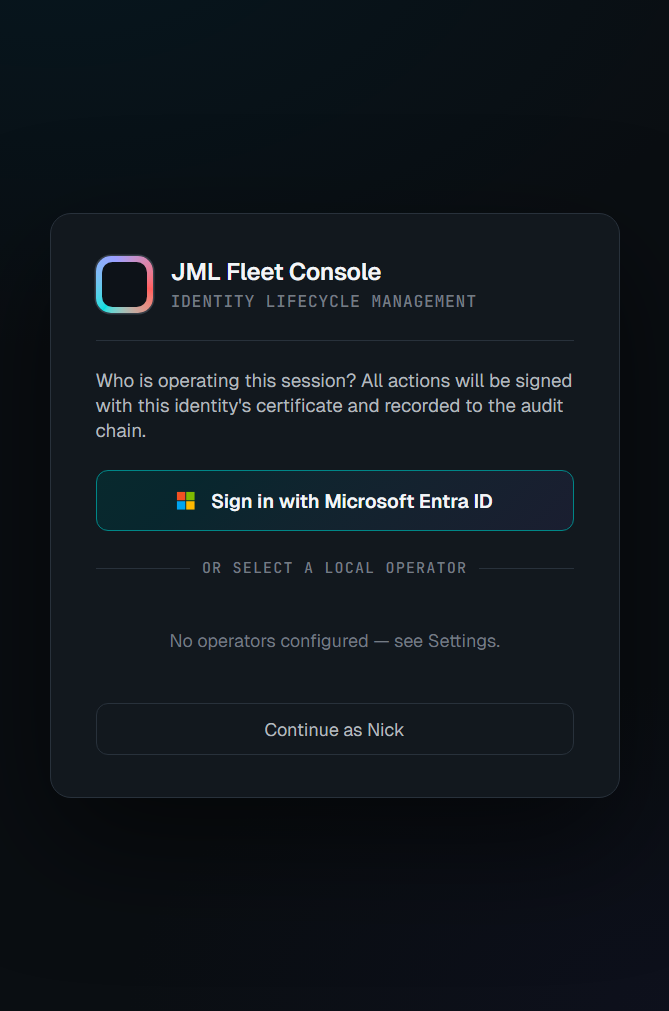
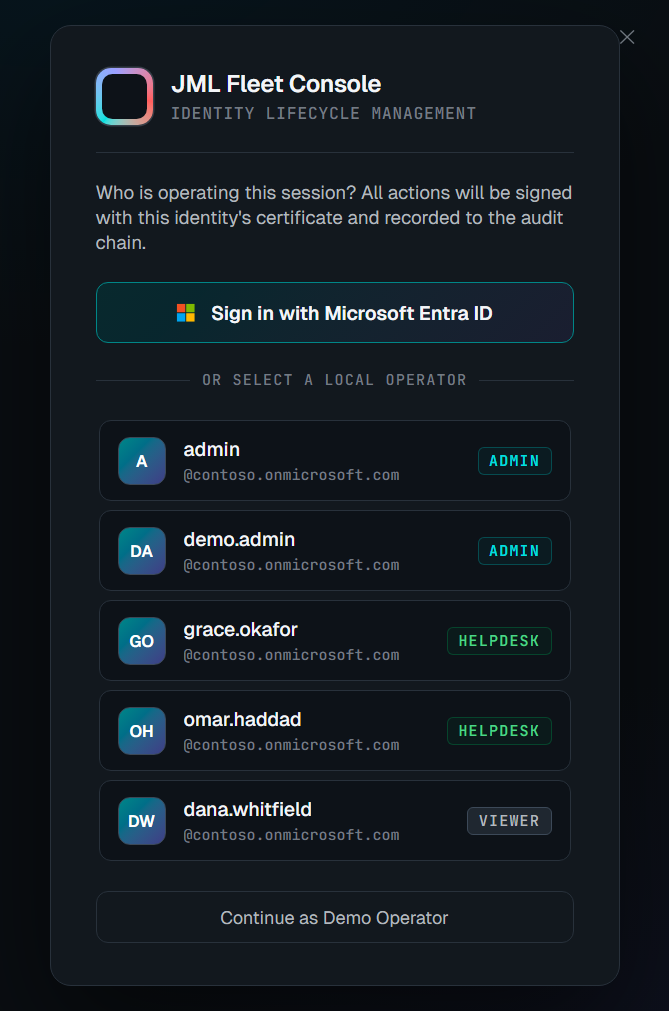
QC: refresh screenshots (PII-safe), fix stale test counts and download links
- Regenerate every view screenshot (16 console views + integrations +
  docked panel + overlay) against the current UI, with a hardened capture
  sanitizer that redacts tenant/client/object-id GUIDs, cert thumbprints,
  and input/textarea values (not just .onmicrosoft.com text) — so the
  settings view never exposes real tenant identifiers.
- Add the Integrations view to the capture harness.
- Correct stale automated-test counts to 105 (README, HACKATHON,
  hackathon-readiness, quality-assurance).
- Point README download links at /releases/latest.

diff --git a/electron-app/main.js b/electron-app/main.js
@@ -4405,6 +4405,7 @@ async function runCapture() {
     ['users',          null, 1000],
     ['certs',          `window.api.getCertExpiry();`, 1500],
     ['graph',          null, 1000],
+    ['integrations',   null, 1500],
   ];
 
   // Capture the Approver agent in its INPUT state: the welcome panel, the
@@ -4525,21 +4526,33 @@ async function runCapture() {
 // demo label everywhere they render. Shared by --capture and --demo-drive.
 const SANITIZE_TENANT = `
   (function(){
-    var REAL = /[a-z0-9.-]*\\.onmicrosoft\\.com/gi;
     var DEMO_DOMAIN = 'contoso.onmicrosoft.com';
-    function scrub(node){
-      if (!node) return;
-      node.querySelectorAll('*').forEach(function(el){
-        if (el.children.length === 0 && el.textContent && REAL.test(el.textContent)) {
-          el.textContent = el.textContent.replace(REAL, function(m){
-            var local = m.split('@')[0];
-            return m.indexOf('@') !== -1 ? local + '@' + DEMO_DOMAIN : DEMO_DOMAIN;
-          });
-        }
-        REAL.lastIndex = 0;
-      });
+    var FAKE_GUID   = '00000000-0000-0000-0000-000000000000';
+    var FAKE_THUMB  = 'A1B2C3D4E5F6A7B8C9D0E1F2A3B4C5D6E7F8A9B0';
+    function scrub(t){
+      if (!t) return t;
+      return String(t)
+        // tenant/client/object id GUIDs
+        .replace(/[0-9a-f]{8}-[0-9a-f]{4}-[0-9a-f]{4}-[0-9a-f]{4}-[0-9a-f]{12}/gi, FAKE_GUID)
+        // certificate thumbprints (SHA-1, 40 hex)
+        .replace(/\\b[0-9A-Fa-f]{40}\\b/g, FAKE_THUMB)
+        // real .onmicrosoft.com domains (keep any local-part of a UPN)
+        .replace(/[a-z0-9.-]+\\.onmicrosoft\\.com/gi, function(m, off, s){
+          var at = s.lastIndexOf('@', off);
+          return DEMO_DOMAIN;
+        });
     }
-    scrub(document.body);
+    document.querySelectorAll('*').forEach(function(el){
+      if (el.children.length === 0 && el.textContent) {
+        var s = scrub(el.textContent);
+        if (s !== el.textContent) el.textContent = s;
+      }
+      // Tenant ID / Client ID / domain are rendered as input or textarea values.
+      if ((el.tagName === 'INPUT' || el.tagName === 'TEXTAREA') && el.value) {
+        var v = scrub(el.value);
+        if (v !== el.value) el.value = v;
+      }
+    });
     ['sidebar-tenant-domain','topbar-tenant-domain'].forEach(function(id){
       var el = document.getElementById(id);
       if (el && /onmicrosoft/i.test(el.textContent)) el.textContent = DEMO_DOMAIN;

diff --git a/README.md b/README.md
@@ -14,8 +14,8 @@ Five minutes to the core of it:
 
 1. **The thesis** — autonomous AI agents should *propose* identity changes, never own directory-write authority. Microsoft Entra itself enforces this: write scopes are blocked on agent identities. This project's hybrid architecture (reasoning agents on **Entra Agent IDs**, execution behind a policy-gated control plane on least-privilege service principals) isn't a workaround — it's the platform-aligned answer, running live in a real tenant.
 2. **See it** — the [screenshots below](#screenshots) are real captures from the running console: risk-scored approvals, a tamper-evident hash-chained audit trail replicated to Sentinel/Blob, UEBA findings, and the Glass Screen showing a live operation advance through Request → Risk → Execute → Verify → Complete.
-3. **Run it** — download the published release artifact from [JML Console v1.1.5](https://github.com/TrickyDanceMoves/jml-agent-fleet/releases/tag/v1.1.5); the Setup Wizard binds your tenant and provisions the required identities with admin-consent links ([Installation](#installation)). Or run `npm start` from `electron-app/` for the development path.
-4. **Audit it** — [threat model](docs/threat-model.md) · [agent identity roadmap (now executed)](docs/agent-identity-roadmap.md) · [Electron hardening](docs/electron-security.md) · 93 automated tests enforced by the CI quality gate.
+3. **Run it** — download the published installer from the [latest JML Console release](https://github.com/TrickyDanceMoves/jml-agent-fleet/releases/latest); the Setup Wizard binds your tenant and provisions the required identities with admin-consent links ([Installation](#installation)). Or run `npm start` from `electron-app/` for the development path.
+4. **Audit it** — [threat model](docs/threat-model.md) · [agent identity roadmap (now executed)](docs/agent-identity-roadmap.md) · [Electron hardening](docs/electron-security.md) · 105 automated tests enforced by the CI quality gate.
 
 > **The model proposes; policy and approval decide what executes.**
 
@@ -315,7 +315,7 @@ Planning guidance for the follow-on Azure Network Deployment and Governance Cons
 
 ## Installation
 
-Download `JML.Console.Setup.1.1.5.exe` from the [v1.1.5 GitHub Release](https://github.com/TrickyDanceMoves/jml-agent-fleet/releases/tag/v1.1.5). No admin rights are required; it installs per-user to `%LOCALAPPDATA%\Programs\JML Console\`.
+Download the `JML Console Setup` installer from the [latest GitHub Release](https://github.com/TrickyDanceMoves/jml-agent-fleet/releases/latest). No admin rights are required; it installs per-user to `%LOCALAPPDATA%\Programs\JML Console\`.
 
 **Prerequisite:** Microsoft Graph PowerShell SDK
 ```powershell

diff --git a/docs/hackathon-readiness.md b/docs/hackathon-readiness.md
@@ -20,7 +20,7 @@ met by **Foundry IQ** (live; grounds risk/approval decisions on the JML policy c
 | Live demo | Ready | Electron console, Glass Screen lifecycle replay, approval and audit surfaces |
 | Microsoft identity platform | Ready | Entra ID, Microsoft Graph, and live Entra Agent ID authentication |
 | Microsoft IQ requirement | Ready | Foundry IQ grounds risk/approval decisions on the JML policy corpus with citations and fail-closed behavior (`lib/foundry-iq.js`, 8 tests) |
-| Automated quality | Ready | 82 Electron tests pass; PowerShell parse checks pass; CI runs the suite |
+| Automated quality | Ready | 105 Electron tests pass; PowerShell parse checks pass; CI runs the suite |
 | Dependency security | Ready | Production dependency audits report zero known vulnerabilities |
 | Public release | Ready | Installer and portable ZIP are attached to GitHub Release v1.0.0 |
 | Documentation accuracy | Improved | Case study, README, hackathon guide, and QA language aligned to current state |

diff --git a/docs/quality-assurance.md b/docs/quality-assurance.md
@@ -13,7 +13,7 @@ This checklist is the release gate for treating JML Fleet as buttoned up and rea
 | Enterprise Agents IQ requirement | Blocking | The repository does not yet implement Foundry IQ, Work IQ, Fabric IQ, or Web IQ. Add and demonstrate one before submission. |
 | Workday/SuccessFactors adapters | Roadmap | BambooHR is implemented. Additional HRIS adapters should stay out of the shipped claim until implemented. |
 | Runtime configs and credentials | Expected | Secret-bearing `.json` files are gitignored and generated by setup/provisioning flows. |
-| Automated console tests | Ready | 48 tests pass locally and are enforced in `.github/workflows/quality-gate.yml`. |
+| Automated console tests | Ready | 105 tests pass locally and are enforced in `.github/workflows/quality-gate.yml`. |
 
 ## Required Smoke Tests
 

diff --git a/HACKATHON.md b/HACKATHON.md
@@ -138,7 +138,7 @@ of implementation.
 | **Concept** | Hybrid Agent ID architecture separates reasoning from privileged execution |
 | **Impact** | Reduces manual JML work while preserving approval, traceability, and failure truth |
 | **Use of Microsoft Platform** | Entra ID, Entra Agent ID, Microsoft Graph, Azure Functions, Storage, Sentinel, Purview, and the required IQ layer |
-| **Quality of Implementation** | Live console, replayable lifecycle state, fail-closed controls, 48 tests, CI, threat model, and downloadable release |
+| **Quality of Implementation** | Live console, replayable lifecycle state, fail-closed controls, 105 tests, CI, threat model, and downloadable release |
 
 ## Judge Setup
 
